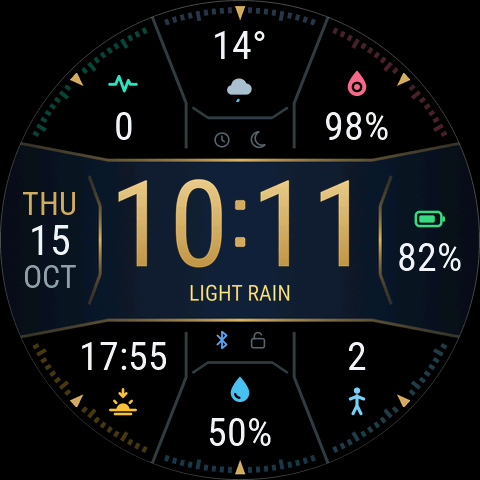
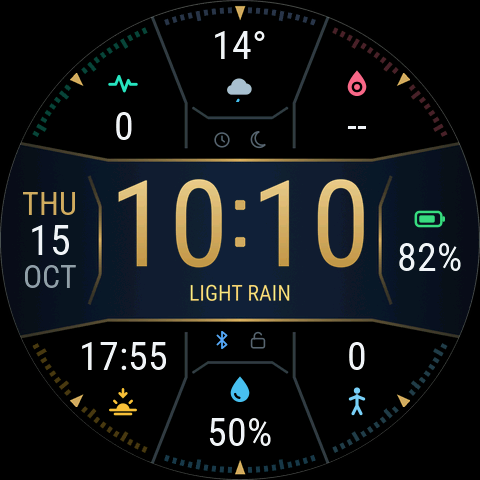
Sextant: move to Zepp OS API level 4.2
The face uses @zos/ui, @zos/sensor, @zos/settings and @zos/utils. Stand, fat
burning, blood oxygen and stress are read from sensors (stand and fat burning
light their gauges); floors, current weather, UV, humidity and air quality stay
bound widgets. The harness stubs the @zos modules. Screenshots retaken on the
emulator.

Claude-Session: https://claude.ai/code/session_012KPDJFynRZHgtW6jiJMtsx

Changed region(s): [[0.6562, 0.375, 0.7812, 0.5625], [0.6562, 0.2188, 0.8125, 0.3125], [0.7188, 0.7188, 0.7812, 0.7812]]

diff --git a/faces/sextant/watchface/index.js b/faces/sextant/watchface/index.js
@@ -1,7 +1,7 @@
 /**
  * Copyright (c) 2026 raetha. Licensed CC BY-NC-SA 4.0 (see faces/sextant/LICENSE).
  *
- * Sextant watch face for Zepp OS (API level 1 globals: hmUI / hmSensor / hmSetting).
+ * Sextant watch face for Zepp OS (API level 4.2: @zos/ui, @zos/sensor, @zos/settings).
  *
  * Structure
  *  - Edit groups are created once in build(): five complication slots, a theme
@@ -12,6 +12,12 @@
  *  - All coordinates come from layout.generated.js, produced by
  *    faces/sextant/design/generate.py together with the image assets.
  */
+import * as hmUI from '@zos/ui';
+import {
+  Time, Battery, Step, Calorie, HeartRate, Distance, Pai, Weather, Stand, FatBurning, BloodOxygen, Stress,
+} from '@zos/sensor';
+import { getTimeFormat, getDistanceUnit, TIME_FORMAT_12, DISTANCE_UNIT_IMPERIAL } from '@zos/settings';
+import { px } from '@zos/utils';
 import { LAYOUT as L } from './layout.generated';
 import { METRIC_IDS, SENSOR_METRICS, BOUND_METRICS } from '../../../lib/js/metrics';
 import { isNight } from '../../../lib/js/sun';
@@ -49,8 +55,14 @@ const NIGHT_TYPES = [
 ];
 
 function px_(v) {
-  return typeof px === 'function' ? px(v) : v;
+  return px(v);
 }
+
+/** Sensor classes by the names lib/js/metrics.js uses. */
+const SENSORS = {
+  TIME: Time, BATTERY: Battery, STEP: Step, CALORIE: Calorie, HEART: HeartRate, DISTANCE: Distance,
+  PAI: Pai, WEATHER: Weather, STAND: Stand, FAT_BURNING: FatBurning, SPO2: BloodOxygen, STRESS: Stress,
+};
 
 WatchFace({
   build() {
@@ -86,9 +98,12 @@ WatchFace({
 
   // ---------------------------------------------------------------- sensors
   sensor(name) {
-    if (!this.sensors[name]) {
-      const id = hmSensor.id[name];
-      this.sensors[name] = id === undefined ? null : hmSensor.createSensor(id);
+    if (this.sensors[name] === undefined) {
+      try {
+        this.sensors[name] = SENSORS[name] ? new SENSORS[name]() : null;
+      } catch (e) {
+        this.sensors[name] = null;   // e.g. a missing permission
+      }
     }
     return this.sensors[name];
   },
@@ -100,9 +115,9 @@ WatchFace({
     };
     const onChange = () => this.update();
     const subs = [];
-    if (this.timeSensor && this.timeSensor.addEventListener) {
-      this.timeSensor.addEventListener(this.timeSensor.event.MINUTEEND, onMinute);
-      subs.push(() => this.timeSensor.removeEventListener(this.timeSensor.event.MINUTEEND, onMinute));
+    if (this.timeSensor) {
+      this.timeSensor.onPerMinute(onMinute);
+      subs.push(() => this.timeSensor.offPerMinute && this.timeSensor.offPerMinute(onMinute));
     }
     const watched = new Set(['BATTERY']);
     this.settings.slots.forEach((id) => {
@@ -111,11 +126,13 @@ WatchFace({
     });
     watched.forEach((name) => {
       const s = this.sensor(name);
-      if (!s || !s.addEventListener) return;
+      if (!s) return;
       const def = Object.values(SENSOR_METRICS).find((d) => d.sensor === name);
-      const ev = def && def.event ? hmSensor.event[def.event] : hmSensor.event.CHANGE;
-      s.addEventListener(ev, onChange);
-      subs.push(() => s.removeEventListener && s.removeEventListener(ev, onChange));
+      // heart rate reports its last measurement; the others report changes
+      const [on, off] = def && def.event === 'LAST' ? ['onLastChange', 'offLastChange'] : ['onChange', 'offChange'];
+      if (typeof s[on] !== 'function') return;
+      s[on](onChange);
+      subs.push(() => typeof s[off] === 'function' && s[off](onChange));
     });
     this.unsubscribe = () => subs.forEach((f) => f());
   },
@@ -153,7 +170,7 @@ WatchFace({
 
   // ---------------------------------------------------------------- theme
   wantedTheme() {
-    if (this.settings.night === 'auto' && isNight(this.weatherSensor, this.timeSensor)) return 'night';
+    if (this.settings.night === 'auto' && isNight(this.weatherSensor, this.now())) return 'night';
     return this.settings.theme;
   },
 
@@ -347,11 +364,21 @@ WatchFace({
     });
   },
 
+  /** The current time as plain fields (the shape lib/js expects). */
+  now() {
+    const t = this.timeSensor;
+    return {
+      hour: t.getHours(), minute: t.getMinutes(), day: t.getDate(), month: t.getMonth(),
+      // 1 = Monday ... 7 = Sunday (0 is also taken as Sunday)
+      week: ((t.getDay() + 6) % 7) + 1,
+    };
+  },
+
   // ---------------------------------------------------------------- updates
   update() {
     const dyn = this.dyn;
     if (!dyn) return;
-    const time = this.timeSensor;
+    const time = this.now();
     const theme = this.theme;
     const C = L.colors[theme];
 
@@ -365,7 +392,7 @@ WatchFace({
     });
 
     // battery
-    const level = this.batterySensor ? this.batterySensor.current || 0 : 0;
+    const level = this.batterySensor ? this.batterySensor.getCurrent() || 0 : 0;
     const band = level > 40 ? 'high' : level > 20 ? 'mid' : 'low';
     dyn.batteryIcon.setProperty(hmUI.prop.SRC, `battery/${theme}/${band}.png`);
     dyn.battery.setProperty(hmUI.prop.TEXT, `${level}%`);
@@ -374,14 +401,19 @@ WatchFace({
     // complications
     const ctx = {
       time,
-      is12h: hmSetting.getTimeFormat() === 0,
-      imperial: typeof hmSetting.getMileageUnit === 'function' && hmSetting.getMileageUnit() === 1,
+      is12h: getTimeFormat() === TIME_FORMAT_12,
+      imperial: getDistanceUnit() === DISTANCE_UNIT_IMPERIAL,
     };
     dyn.slots.forEach((slot, i) => {
       const def = SENSOR_METRICS[slot.id];
       if (!def) return;
       const sensor = this.sensor(def.sensor);
-      const r = sensor ? def.read(sensor, ctx) : { text: '--', progress: null };
+      let r = { text: '--', progress: null };
+      try {
+        if (sensor) r = def.read(sensor, ctx);
+      } catch (e) {
+        // keep the placeholder
+      }
       this.setValue(i, slot, r, C);
       if (r.icon) slot.icon.setProperty(hmUI.prop.SRC, `${slot.iconDir}/${r.icon}.png`);
       if (slot.progress) this.setTicks(slot, r.progress);

diff --git a/lib/js/metrics.js b/lib/js/metrics.js
@@ -2,10 +2,11 @@
  * Complication definitions.
  *
  * Two kinds of metric:
- *  - "sensor" metrics read an hmSensor directly, so the face controls formatting
+ *  - "sensor" metrics read an @zos/sensor directly, so the face controls formatting
  *    (thousands separators, units, "--" placeholders) and gauge progress.
- *  - "bound" metrics use the system's data binding (TEXT_FONT / ARC_PROGRESS `type`),
- *    for data that has no API level 1 sensor (floors, SpO2, stress, UV, ...).
+ *  - "bound" metrics use the system's data binding (TEXT_FONT / IMG_LEVEL `type`),
+ *    for data no sensor exposes at API level 4.2 (floors, current weather, UV,
+ *    humidity, air quality).
  */
 import { formatThousands, formatDistance, formatClock } from './format';
 import { nextSunEvent } from './sun';
@@ -20,8 +21,8 @@ export const SENSOR_METRICS = {
   steps: {
     sensor: 'STEP',
     read(s) {
-      const current = s.current || 0;
-      const target = s.target || 8000;
+      const current = s.getCurrent() || 0;
+      const target = s.getTarget() || 8000;
       return { text: formatThousands(current), progress: current / target };
     },
   },
@@ -29,30 +30,62 @@ export const SENSOR_METRICS = {
     sensor: 'HEART',
     event: 'LAST',
     read(s) {
-      const last = s.last || 0;
+      const last = s.getLast() || 0;
       return { text: last > 0 ? String(last) : '--', progress: null };
     },
   },
   distance: {
     sensor: 'DISTANCE',
     read(s, ctx) {
-      const { text, unit } = formatDistance(s.current || 0, ctx.imperial);
+      const { text, unit } = formatDistance(s.getCurrent() || 0, ctx.imperial);
       return { text, unit, progress: null };
     },
   },
   calories: {
     sensor: 'CALORIE',
     read(s) {
-      const current = s.current || 0;
-      const target = s.target || 300;
+      const current = s.getCurrent() || 0;
+      const target = s.getTarget() || 300;
       return { text: formatThousands(current), progress: current / target };
     },
   },
   pai: {
     sensor: 'PAI',
     read(s) {
-      const total = s.totalpai || 0;
+      const total = s.getTotal() || 0;
       return { text: String(total), progress: total / 100 };
+    },
+  },
+  stand: {
+    sensor: 'STAND',
+    read(s) {
+      const current = s.getCurrent() || 0;
+      const target = s.getTarget() || 12;
+      return { text: String(current), progress: current / target };
+    },
+  },
+  fatburn: {
+    sensor: 'FAT_BURNING',
+    read(s) {
+      const current = s.getCurrent() || 0;
+      const target = s.getTarget() || 30;
+      return { text: String(current), progress: current / target };
+    },
+  },
+  spo2: {
+    sensor: 'SPO2',
+    read(s) {
+      const r = s.getCurrent();
+      const v = r && r.value;
+      return { text: v > 0 ? `${v}%` : '--', progress: null };
+    },
+  },
+  stress: {
+    sensor: 'STRESS',
+    read(s) {
+      const r = s.getCurrent();
+      const v = r && r.value;
+      return { text: v > 0 ? String(v) : '--', progress: null };
     },
   },
   sun: {
@@ -69,13 +102,9 @@ export const SENSOR_METRICS = {
   },
 };
 
-/** Metrics drawn by the system. `type` is the hmUI.data_type key. */
+/** Metrics drawn by the system (no sensor exposes them). `type` is the data_type key. */
 export const BOUND_METRICS = {
   floors: { type: 'FLOOR', unit: 0, progress: true },
-  stand: { type: 'STAND', unit: 0, progress: true },
-  fatburn: { type: 'FAT_BURNING', unit: 0, progress: true },
-  spo2: { type: 'SPO2', unit: 1, progress: false },
-  stress: { type: 'STRESS', unit: 0, progress: false },
   uvi: { type: 'UVI', unit: 0, progress: false },
   humidity: { type: 'HUMIDITY', unit: 1, progress: false },
   // current temperature; the icon is an IMG_LEVEL of condition icons bound to the same data

diff --git a/lib/js/sun.js b/lib/js/sun.js
@@ -9,7 +9,9 @@ const FALLBACK_NIGHT_END = 7 * 60;
 
 function sunTimes(weatherSensor) {
   try {
-    const forecast = weatherSensor.getForecastWeather();
+    // firmware 4.2 names it getForecast(); the typings (and older levels) getForecastWeather()
+    const forecast = typeof weatherSensor.getForecast === 'function'
+      ? weatherSensor.getForecast() : weatherSensor.getForecastWeather();
     const tide = forecast && forecast.tideData;
     if (!tide || !tide.count || !tide.data || !tide.data[0]) return null;
     const { sunrise, sunset } = tide.data[0];

diff --git a/docs/development.md b/docs/development.md
@@ -6,7 +6,7 @@ This is the canonical guide for the repository. Read it before changing anything
 
 | Path | What it is |
 | --- | --- |
-| `faces/<face>/app.json`, `app.js` | Zepp OS manifest and app entry for one face (watch face, API level 1.0). |
+| `faces/<face>/app.json`, `app.js` | Zepp OS manifest and app entry for one face (watch face, API level 4.2). |
 | `faces/<face>/watchface/index.js` | The face's code: edit groups, widgets per theme, updates. |
 | `faces/<face>/watchface/layout.generated.js` | **Generated.** Every coordinate, colour and size the face uses. |
 | `faces/<face>/assets/common.r/` | **Generated.** PNGs plus the subset font for text widgets. `icon.png` and `cover.png` come from `npm run screenshots` (the emulator's `day.png`). |
@@ -36,7 +36,7 @@ npm install -g @zeppos/zeus-cli           # only needed to build/preview on a wa
 
 1. Change a face's design constants in `faces/<face>/design/config.py`, or its drawing code.
 2. `npm run assets` (or `python3 faces/<face>/design/generate.py`) regenerates its assets and `layout.generated.js`.
-3. `npm test` runs every scenario of every face through the real watch-face code against stubbed Zepp OS globals. It fails on:
+3. `npm test` runs every scenario of every face through the real watch-face code against stubbed Zepp OS modules (`@zos/ui`, `@zos/sensor`, `@zos/settings`, `@zos/utils`). It fails on:
    - runtime errors,
    - missing assets,
    - the wrong theme for a scenario (a scenario's `expect_theme`, default `color`).
@@ -65,13 +65,15 @@ If more than one face needs a piece of code, move it to `lib/js/` or `lib/py/zfk
 
 ## How Sextant is built (reference for new faces)
 
+- **API level 4.2** (`app.json` → `runtime.apiVersion`). The face imports `@zos/ui`, `@zos/sensor`, `@zos/settings` and `@zos/utils`, and lists a permission for each health sensor it reads (`data:user.hd.step` and so on). 4.2 is the highest level the emulator runs (Balance 2 image); the Balance 3 itself is 4.4. **When Zepp publishes a Balance 3 emulator image, move to 4.4 (or whatever is then current)**, retest and update this note.
+
 - **Edit groups** are created once in `build()`: five complication slots, a theme picker (Color / Mono) over the date, and a night-mode switch (Auto / Off) over the time. They use custom edit types (`100001+`), so any metric can go in any slot.
 - **`render(theme)`** creates every visible widget for `color`, `mono` or `night`. Night runs from sunset to sunrise (forecast sun data, or 19:00–07:00 until that exists). On a theme change, the rendered widgets are deleted and recreated. Sensors, listeners and the `WIDGET_DELEGATE` are created once and never deleted.
 - **Weather**: as a complication (default top-middle), the icon is an `IMG_LEVEL` bound to `WEATHER_CURRENT` and the temperature is a bound `TEXT_FONT`. The condition text under the time is another `IMG_LEVEL`, with one image per condition. The condition names are pre-rendered text images. Face code can't read the current condition, so this is the only way to show it.
 - **Arc angles are whole degrees.** The firmware truncates `start_angle`, `end_angle` and the level-filled end to whole degrees, and arcs under 1° don't draw. `geometry.tick_arc()` gives each tick integer angles, extending away from the nearer centre-line point, so the bezel is symmetric both ways. The preview truncates the same way.
 - **Gauges**: every tick is its own short `ARC_PROGRESS` (one per 2°, coloured dim or lit), so nothing depends on how the firmware layers arcs over images. An earlier overlay-mask approach failed on the Balance 3: arcs drew on top of the mask.
-  - Sensor metrics (steps, calories, PAI) light the first round(progress × N) ticks in fill order.
-  - System-bound metrics (floors, stand, fat burning, …) show their value through `TEXT_FONT`, but API level 1 has no sensor to read their progress from, so their ticks stay dim.
+  - Sensor metrics with a goal (steps, calories, PAI, stand, fat burning) light the first round(progress × N) ticks in fill order.
+  - System-bound metrics (floors, current weather, UV, humidity, air quality) have no sensor at API level 4.2. They show their value through `TEXT_FONT`, and the face can't read the number, so floors' ticks stay dim.
 - **Text** is `TEXT` / `TEXT_FONT` with the bundled Roboto Condensed. The time is `IMG_TIME` with pre-rendered fixed-width digits (Roboto Regular, size solved from `TIME_SIDE_GAP`, currently 106px, brass gradient).
 - **Always-on** widgets use `show_level: ONLY_AOD`: outline digits, date and battery.
 
@@ -141,7 +143,7 @@ Only shots the READMEs or the install site use are kept. A full Sextant set take
 
 **Emulator limits:**
 - `zeus build` converts images to the watch's own compressed format, which the emulator can't decode. `tools/emu/prepare.py` swaps the original PNGs back in, for the emulator only.
-- The distance sensor always reads 0, and PAI reads 0.
+- Test values (`set`) reach steps, calories, heart rate and battery through `@zos/sensor`, and every bound widget. Distance, PAI, stand, fat burning, blood oxygen and stress read 0 through `@zos/sensor` even when set (their bound widgets do show the values), so check those on a real watch.
 - The weather location is fixed (Beijing data: sunset 17:55). Weather values only update when they change.
 
 The firmware log, including the face's `console.log` output, is in `tools/.emu/serial.log`. Watch state persists in `tools/.emu/flash.bin`.
@@ -152,13 +154,14 @@ The firmware log, including the face's `console.log` output, is in `tools/.emu/s
 - **Arc angles:** truncated to whole degrees (see above). This was the cause of the north marker crowding the tick to its right.
 - **Text:** the firmware matches the line-box model in `text_box_for_ink_centre()` to within half a pixel, as long as boxes sit on whole pixels. Fractional `y` values were being rounded about 1–2px low. `FIRMWARE_TEXT_DY` in `lib/py/zfkit/fonts.py` is the calibration term, and it's 0.
 - **Arcs:** `radius` is the centre of the stroke (`ARC_RADIUS_IS_CENTER = true`). The ticks match the offline renders exactly.
-- **Weather:** `curAirIconIndex` doesn't exist on API level 1. Face code can only read the forecast (`getForecastWeather()`: per-day high, low and condition index, plus sun and moon times). The current condition is only available to bound widgets, so the icon and the condition text are both `IMG_LEVEL` widgets bound to `WEATHER_CURRENT`.
+- **Weather:** face code can only read the forecast (per-day high, low and condition index, plus sun and moon times), at API level 1 and at 4.2. The 4.2 firmware names the call `getForecast()`, while the typings still say `getForecastWeather()`; `lib/js/sun.js` uses whichever exists. The current condition and temperature are only available to bound widgets, so the icon and the condition text are both `IMG_LEVEL` widgets bound to `WEATHER_CURRENT`.
+- **API level 4.2** (migrated October 2026): the `@zos/*` modules are on the firmware with the same widget set and data types as API level 1 (`IMG_TIME`, `IMG_STATUS`, `IMG_LEVEL`, `TEXT_FONT`, `WATCHFACE_EDIT_GROUP`, `WIDGET_DELEGATE`). A sensor read without its permission in `app.json` throws "permission denied". `IMG` takes `angle` with `center_x` / `center_y` and the firmware rotates the image.
 - **Edit mode** hides every normal widget and draws only `ONLY_EDIT` widgets and the edit groups, in creation order. So an edit-mode backdrop has to be created before the edit groups.
 - **Custom edit types**, 12-hour mode, status icons, battery bands and automatic night mode all work as designed.
 
 - **Always-on screen**, with the setting on and following the watch face, shows the outline time, date and battery.
 
-Still to check on a real watch: **distance units** (`hmSetting.getMileageUnit()`, 1 = miles).
+Still to check on a real watch: **distance units** (`getDistanceUnit()`), and the readings of distance, PAI, stand, fat burning, blood oxygen and stress, which the emulator can't feed (see the emulator limits). If those read 0 on a watch, those metrics can go back to bound widgets in `lib/js/metrics.js`.
 
 ## Phone-side settings (not built)
 

diff --git a/CLAUDE.md b/CLAUDE.md
@@ -32,7 +32,9 @@ Zepp OS watch faces for the Amazfit Balance 3 (480×480 round). Sextant is the f
 
 - A `.zab` holds one `.zpk` per screen and chip. `tools/extract_zpk.py` must pick by device ID (Balance 3 = 11141376), not take the first one.
 - The emulator can't decode `zeus build`'s compressed images. `tools/emu/prepare.py` swaps the PNGs back in.
-- API level 1 face code can't read the current weather. Use `IMG_LEVEL` bound to `WEATHER_CURRENT`.
+- Faces target API level 4.2 (`@zos/*` modules), the highest the Balance 2 emulator image runs. **When Zepp publishes a Balance 3 emulator image, move to 4.4 (or whatever is current).**
+- Face code can't read floors, the current weather, UV, humidity or air quality at any API level. They're bound widgets (`TEXT_FONT` / `IMG_LEVEL` with a data type).
+- The emulator only feeds test values to steps, calories, heart rate and battery reads; distance, PAI, stand, fat burning, blood oxygen and stress read 0 there.
 - Text boxes must sit on whole pixels. Arc `radius` is the centre of the stroke.
 - Arc angles are truncated to whole degrees, and arcs under 1° don't draw. Ticks use `geometry.tick_arc()`.
 - Edit mode shows only `ONLY_EDIT` widgets and the edit groups, in creation order.

diff --git a/faces/sextant/README.md b/faces/sextant/README.md
@@ -26,7 +26,7 @@ The QR code always installs the latest release (see the [changelog](CHANGELOG.md
 | **Always-on** | **Other complications** | **Edit mode** |
 | <img src="screenshots/day_aod.png" width="250"> | <img src="screenshots/alt.png" width="250"> | <img src="screenshots/day_edit.png" width="250"> |
 
-All screenshots are taken on the real Zepp OS firmware (Amazfit Balance 2 emulator image). The emulator's distance sensor always reads 0.
+All screenshots are taken on the real Zepp OS firmware (Amazfit Balance 2 emulator image). The emulator can't feed test values to some sensors (distance, PAI, stand, blood oxygen), so those show 0 or -- in the screenshots.
 
 ## Features
 

diff --git a/faces/sextant/CHANGELOG.md b/faces/sextant/CHANGELOG.md
@@ -18,6 +18,8 @@ All notable changes to the Sextant watch face. The format follows
 - The corner gauges gain a tick, and the section dividers are centred in the gaps between gauges.
 - The bar's separators take the brass gradient of its edges, and both keep a little brass at their ends.
 
+- Built on Zepp OS API level 4.2 (was 1.0). Stand, fat burning, blood oxygen and stress are now read directly, so stand and fat burning light their gauges towards their daily goals.
+
 ### Fixed
 - Icons are centred in their boxes, and the battery icon has the same gap to its percentage as the complications.
 - A value with a comma (like 12,486) above its icon no longer crowds the icon.
